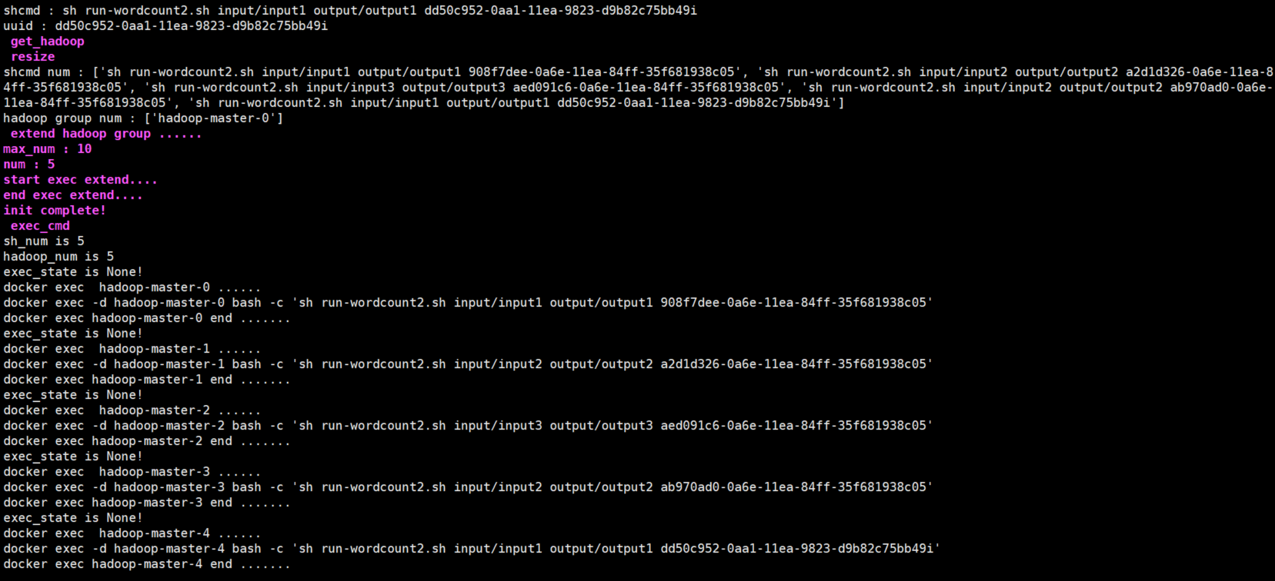
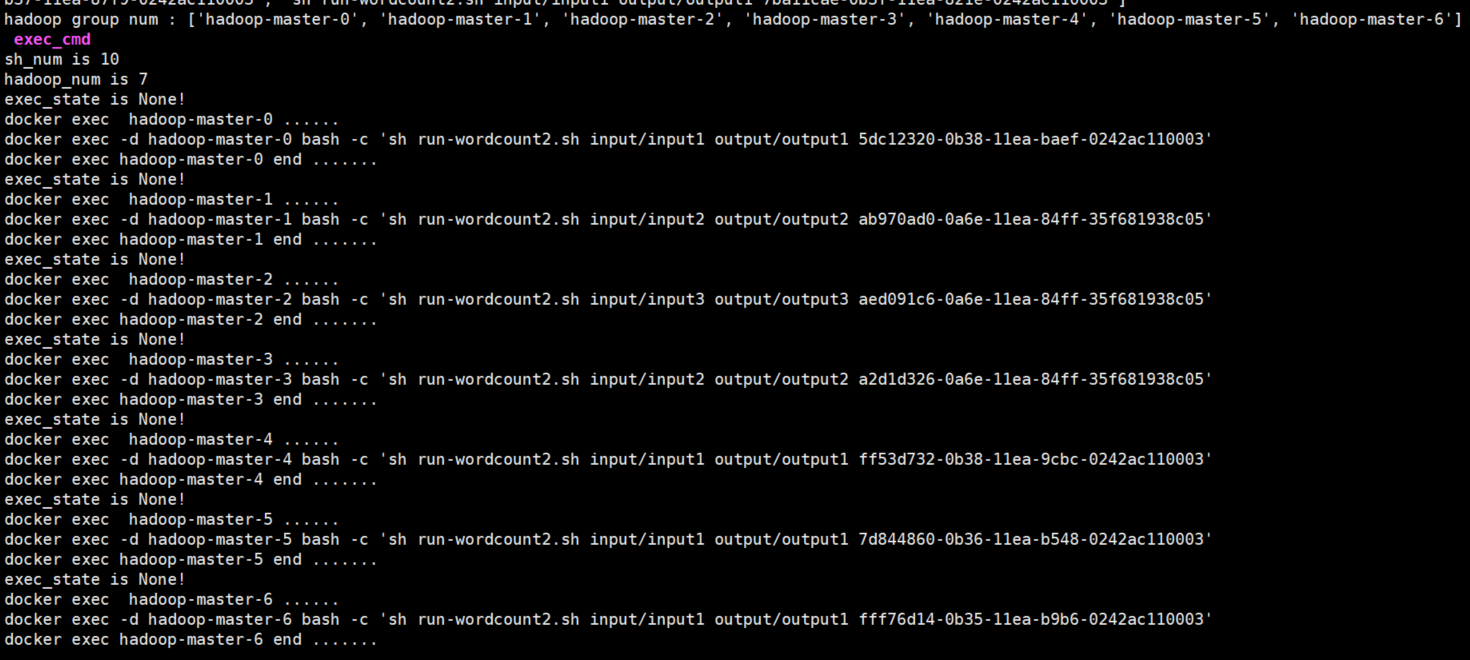
add file lock "flock" to solve file R&W and modify state_machine print

Changed region(s): [[0.0, 0.0, 1.0, 0.9914], [0.8871, 0.0, 1.0, 0.062]]

diff --git a/state_machine.py b/state_machine.py
@@ -47,6 +47,7 @@ class State():
     def resize(self):
         print("shcmd num : "+str(self.shcmd))
         print("hadoop group num : "+str(self.hadoop_list))
+        
         if len(self.shcmd) <= 1:
             self.one_count += 1
             if self.one_count >= 50 and len(self.hadoop_list) > 1:
@@ -55,9 +56,11 @@ class State():
                 self.reduce_group()
                 self.init_hadoop(1)
                 self.one_count = 0
-        if len(self.shcmd) > len(self.hadoop_list)*2:
+        
+        if len(self.shcmd) >= len(self.hadoop_list)*2:
             # todo  extend hadoop-docker group size
             print("\033[1;35m extend hadoop group ...... \033[1;35m")
+            #print("\033[1;35m single hadoop group ...... \033[1;35m")
             self.extend_group(len(self.shcmd))
             self.init_hadoop(len(self.shcmd))
             pass
@@ -137,6 +140,7 @@ class State():
                     uuid = line.split()[-1]
                     #print("subscribe uuid : "+uuid)
                     if self.exec_state[j] == uuid:
+                        print("\033[1;32m uuid [ "+uuid+" ] set None \033[0m!")
                         self.exec_state[j] = self.uuid[i]
                         #subprocess.check_output(['docker', 'exec', 'hadoop-master-' + j, 'bash', '-c', self.shcmd[i]])
                         print("subscribe docker exec hadoop-master-"+str(j)+" .....")
@@ -164,10 +168,11 @@ class State():
                             uuid = line.split()[-1]
                             #print("check uuid : "+uuid)
                             if sh_state == uuid:
-                                print("uuid [ "+uuid+" ] set None")
+                                print("\033[1;32m uuid [ "+uuid+" ] set None \033[0m")
                                 self.exec_state[i] = None
             print("____________________")
         print("current loop check complete...")
+        #print(round(time.time(),3))
         pass        
 
     def go(self):
@@ -194,5 +199,11 @@ if __name__ == "__main__":
     #state.uuid=['908f7dee-0a6e-11ea-84ff-35f681938c05','a2d1d326-0a6e-11ea-84ff-35f681938c05','aed091c6-0a6e-11ea-84ff-35f681938c05','ab970ad0-0a6e-11ea-84ff-35f681938c05']
     #state.exec_cmd()
     #state.parse_shell("docker exec -d hadoop-master-0 bash -c 'sh run-wordcount2.sh input/input1 output/output1 908f7dee-0a6e-11ea-84ff-35f681938c05' ")
+    startTime = round(time.time(),3)
+    print('\033[1;35m 开始时间戳:'+str(startTime)+" \033[0m")
     state.go()
+    endTime = round(time.time(),3)
+    print('\033[1;35m 结束时间戳:'+str(endTime)+" \033[0m")
+    diffTime = endTime - startTime
+    print("processing time : "+str(diffTime))
     print("______________end______________")

diff --git a/README.md b/README.md
@@ -126,7 +126,6 @@ python3 state_machine.py
 ![alt tag](https://raw.githubusercontent.com/wangzy0327/hadoop-cluster-docker/master/resize-hadoop-group-1.png)
 ![alt tag](https://raw.githubusercontent.com/wangzy0327/hadoop-cluster-docker/master/resize-hadoop-group-2.png)
 ![alt tag](https://raw.githubusercontent.com/wangzy0327/hadoop-cluster-docker/master/resize-hadoop-group-3.png)
-![alt tag](https://raw.githubusercontent.com/wangzy0327/hadoop-cluster-docker/master/resize-hadoop-group-4.png)
 
 
 
